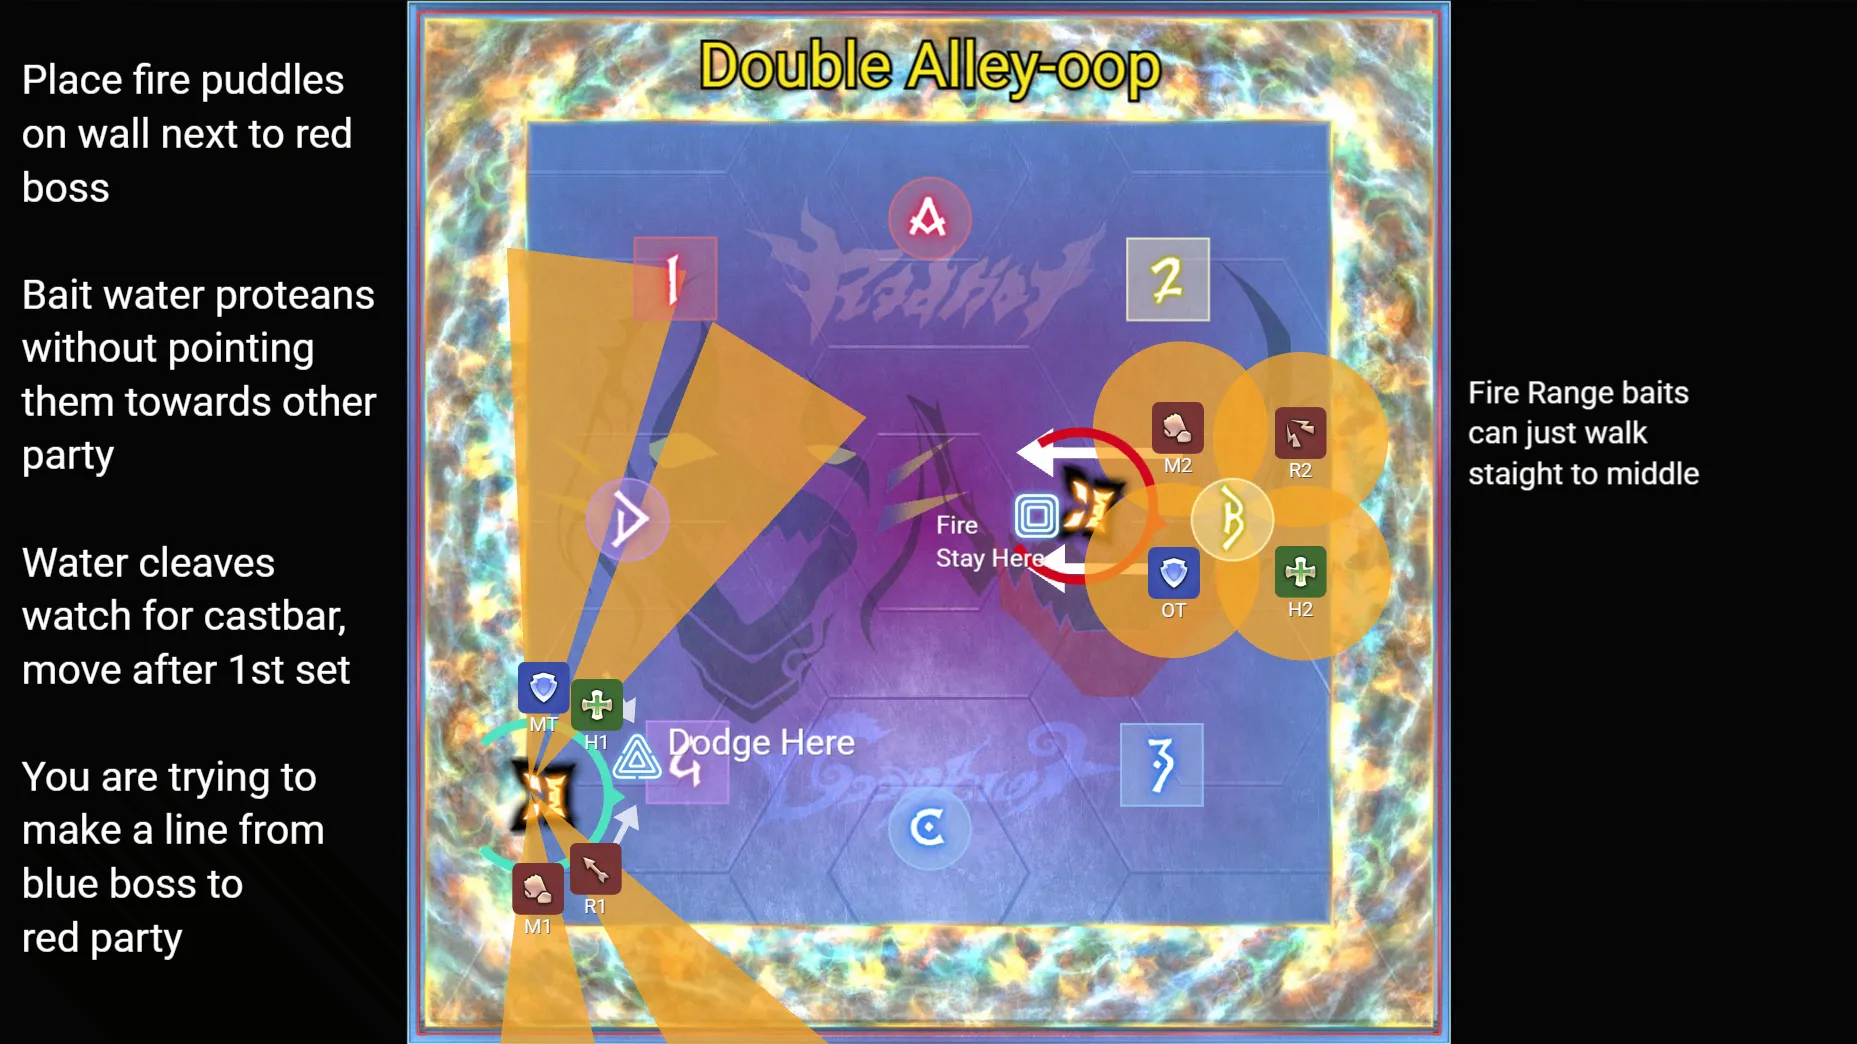
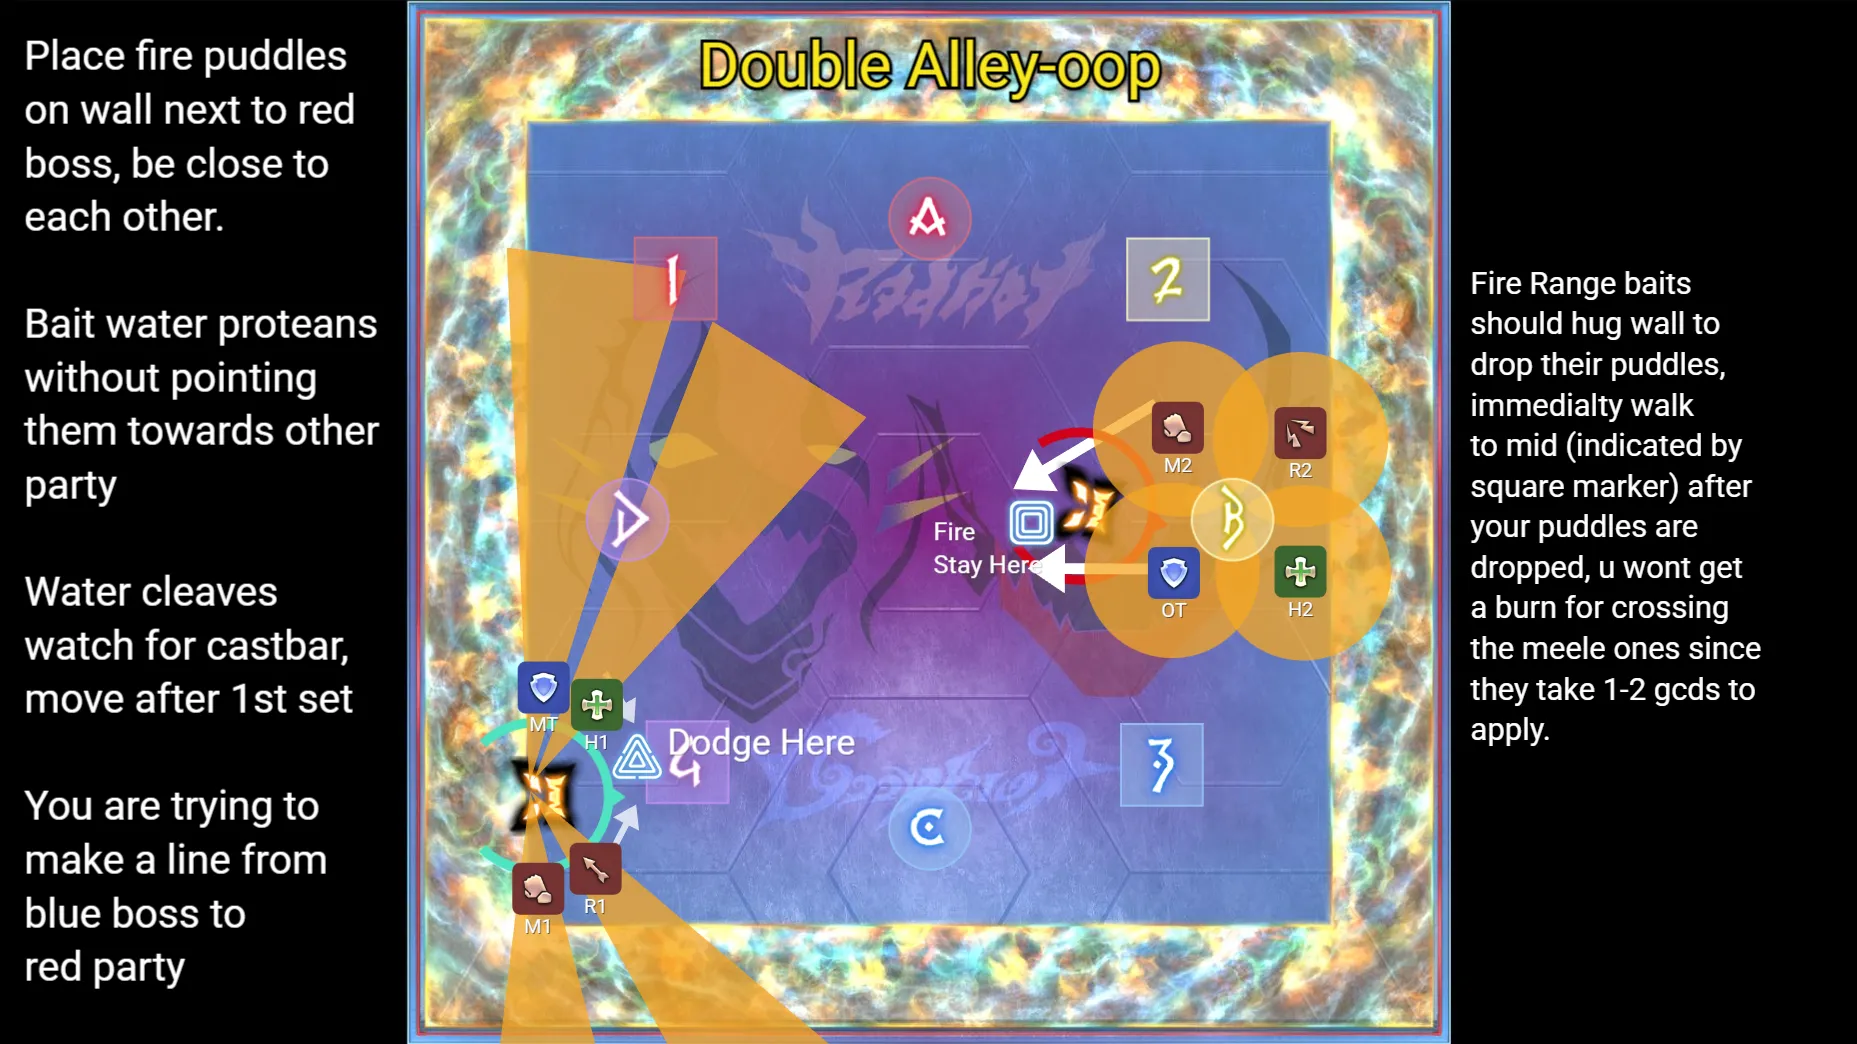
update nomnom

diff --git a/wtfdig/src/routes/74/m10s/data.ts b/wtfdig/src/routes/74/m10s/data.ts
@@ -9,12 +9,12 @@ const toxicFirewatersnaking: MechanicStrat[] = [
   },
   {
     mechanic: "Puddles + Proteans",
-    description: "🔥 Place puddles on east wall in box shape\n💦 Giga tight spread in NW/SW corner with Tank towards middle",
+    description: "💦 Giga tight spread in NW/SW corner with Tank towards middle\n🔥 Place puddles on east wall in box shape",
     imageUrl: "./m10s/toxic-snaking-pp.webp"
   },
   {
     mechanic: "Wide Cleave",
-    description: "Blue jumps to N or S and does wide cleave\nTrue North\n💦 West, 1 ball = Stack, 4 balls = spread 🔥 East (near fire puddles)",
+    description: "Blue jumps to N or S and does wide cleave\nTrue North\n💦 West, 1 ball = Stack, 4 balls = spread\n🔥 East (near fire puddles)",
     imageUrl: "./m10s/toxic-snaking-cleave.webp"
   },
   {
@@ -37,17 +37,17 @@ const nomnomFirewatersnaking: MechanicStrat[] = [
   },
   {
     mechanic: "Puddles + Proteans",
-    description: "🔥 Place puddles on east wall in box shape\n💦 Protean spread in SW corner, dodge 2nd hit",
+    description: "🔥 Place puddles on east wall in box shape\n💦 Protean spread in NW/SW corner, dodge 2nd hit\nWill generally be relative (DPS towards corner) but check with party\nMake sure to leave room/dodge middle for 2nd hit to not cleave fires",
     imageUrl: "./m10s/nomnom-snaking-pp.webp"
   },
   {
     mechanic: "Wide Cleave",
-    description: "Blue jumps to N or S and does wide cleave\nTrue North\n💦 West, 1 ball = Stack, 4 balls = spread 🔥 East (near fire puddles)",
+    description: "Blue jumps to N or S and does wide cleave\nTrue North\n💦 West, 1 ball = Stack, 4 balls = spread\n🔥 East (near fire puddles)",
     imageUrl: "./m10s/nomnom-snaking-cleave.webp"
   },
   {
     mechanic: "Far Jumps",
-    description: "🔥 Boss jumps on furthest fire player 4x\nTHMR\n1/3 (T/M) North 2/4 (H/R) South\nStay near center if not baiting\nImmediately run mid after bait",
+    description: "🔥 Boss jumps on furthest fire player 4x\n1/3 (T/M) Far 2/4 (H/R) Close relative to corner fire puddles\nStay near original puddles if not baiting\nImmediately run mid after bait",
     imageUrl: "./m10s/nomnom-snaking-far.webp"
   },
   {
@@ -57,12 +57,12 @@ const nomnomFirewatersnaking: MechanicStrat[] = [
   },
   {
     mechanic: "Stacks/Spreads",
-    description: "Position Red near middle and Blue away from Take-off cleave lane\n💦 Resolve Stack/Spread\n🔥 Behind Red on unsafe side to bait pie slice E or W",
+    description: "Position Red near middle and Blue away from Take-off cleave lane\n💦 Resolve Stack/Spread\n🔥 Behind Red to bait pie slice towards safe side",
     imageUrl: "./m10s/nomnom-snaking-stacks.webp"
   },
   {
     mechanic: "Cutback Blaze + TB",
-    description: "Move into safespot\n💦 tank bait TB far from Deep Blue",
+    description: "Move into safespot\n💦 Tank bait TB far from Deep Blue\n🔥 Tank go far to bait the safe slice, aim it at D marker",
     imageUrl: "./m10s/nomnom-snaking-tb.webp"
   }
 ];
@@ -238,7 +238,7 @@ export const toxic: Strat = {
         },
         {
           mechanic: "Cutback Blaze",
-          description: "Stack between boss and fire\nBait narrow slice behind boss",
+          description: "Stack between boss and fire\nBait narrow slice behind boss\nSafe slice will bait opposite the furthest valid player",
           imageUrl: "./m10s/toxic-cutback1.webp"
         },
         {
